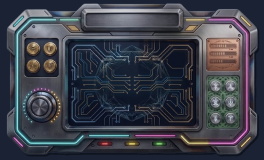
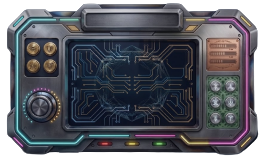
se corrigieron los errores en la tarea 145i review

Changed region(s): [[0.0, 0.0, 1.0, 1.0]]

diff --git a/acercaNosotros.html b/acercaNosotros.html
@@ -30,7 +30,7 @@
   <img class="banner-frame" src="assets/banner-img.png" alt="Marco del Banner">
   <!-- Contenedor de la pantalla central con los botones -->
   <div class="banner-screen">
-    <h1 href="acercaNosotros.html" class="yellow-accent btn-yellow quantico" >CONOCENOS</h1>
+    <h3 href="acercaNosotros.html" class="yellow-accent btn-yellow head" class="head" >CONOCENOS</h3>
     <!-- <nav class="banner-nav">
       <a href="novedades.html" class="banner-btn btn-cyan quantico" data-section="Novedades">
         <span>NOVEDADES</span>
@@ -83,7 +83,7 @@
                         <path id="framePath" class="frame-path" />
                     </svg>
                     <div class="content">
-                        <p>The Pixel Vault es un colectivo de diseño e ingeniería web enfocado en la industria del videojuego. Nació durante un intensivo bootcamp de desarrollo donde diez creativos de distintas disciplinas unieron sus habilidades con una sola meta: crear interfaces inmersivas y experiencias digitales que estén a la altura de los mundos virtuales que representan.</p>
+                        <p>The Pixel Vault es un colectivo de ingeniería web y diseño enfocado en la industria del videojuego. Nació durante un intensivo bootcamp de desarrollo donde diez creativos de distintas disciplinas unieron sus habilidades con una sola meta: crear interfaces inmersivas y experiencias digitales que estén a la altura de los mundos virtuales que representan.</p>
                     </div>
                 </div>
             </div>
@@ -104,11 +104,11 @@
 
             </div>
             <div class="col align-self-center">
-                <h2 id="missionLogs">
+                <h5 id="missionLogs" class="head">
                     Mission Logs:
                     <br>
                     Escala y crecimiento
-                </h2>
+                </h5>
             </div>
             <div class="col">
 
@@ -258,7 +258,7 @@
       <h1 class="team-title">Roster de la tripulación</h1>
       <div class="row align-items-center team-layout">
         <div class="col-12 col-lg-4 team-description-column">
-          <p>
+          <p class="fuente">
             Conoce a las mentes creativas detrás de THE PIXEL VAULT que dieron vida a una interfaz inmersiva en el
             front-end, y los guardianes del control de calidad que mantuvieron el repositorio en orden cazando bugs.
             Juntos unimos talento, café y pasión por los videojuegos para forjar este refugio digital desde cero. ¡El
@@ -334,7 +334,7 @@
         <div class="modal-body">
           <img src="assets/cardBeto.png" class="modal-member-image" alt="cardBeto">
           <div class="d-grid">
-            <p>Soy Desarrollador Full Stack Jr. y me encargo de conectar el *frontend* con la lógica del *backend* para
+            <p class="fuente">Soy Desarrollador Full Stack Jr. y me encargo de conectar el *frontend* con la lógica del *backend* para
               construir aplicaciones web sólidas. Con mi base en Física Aplicada y armas como Java y Python, analizo y
               resuelvo cada reto técnico como si fuera un jefe de nivel. ¡Siempre listo para colaborar y subir de
               experiencia en el equipo!</p>
@@ -361,7 +361,7 @@
         <div class="modal-body">
           <img src="assets/cardAlen.png" class="modal-member-image" alt="cardAlen">
           <div class="d-grid">
-            <p>Desarrollador Java Full Stack Jr. con sólida experiencia en soporte técnico y resolución de fallas.
+            <p class="fuente">Desarrollador Java Full Stack Jr. con sólida experiencia en soporte técnico y resolución de fallas.
               Especializado en analizar sistemas, optimizar procesos y aplicar código limpio (JavaScript, HTML, CSS,
               Git). ¡Listo para aportar lógica y comunicación efectiva al equipo!</p>
             <div class="links">
@@ -387,7 +387,7 @@
         <div class="modal-body">
           <img src="assets/cardJaz.png" class="modal-member-image" alt="cardJaz">
           <div class="d-grid">
-            <p>Desarrolladora Java Full Stack y estudiante de Ciencias de la Informática en el IPN, con bases sólidas en
+            <p class="fuente">Desarrolladora Java Full Stack y estudiante de Ciencias de la Informática en el IPN, con bases sólidas en
               Java, SQL, Git y análisis de datos (Certificación IBM). Apasionada por el código limpio y el trabajo en
               equipo, ¡lista para transformar ideas en soluciones tecnológicas funcionales!</p>
             <div class="links">
@@ -413,7 +413,7 @@
         <div class="modal-body">
           <img src="assets/cardDani.png" class="modal-member-image" alt="cardDani">
           <div class="d-grid">
-            <p>Desarrollador Java Full Stack con experiencia en Python, FastAPI, SQL y Flutter para crear APIs REST e
+            <p class="fuente">Desarrollador Java Full Stack con experiencia en Python, FastAPI, SQL y Flutter para crear APIs REST e
               integrar sistemas. Enfocado en consolidar su carrera en desarrollo web y metodologías ágiles, busca
               aportar soluciones reales y eficientes en proyectos tecnológicos de alto impacto.</p>
             <div class="links">
@@ -439,7 +439,7 @@
         <div class="modal-body">
           <img src="assets/cardDiana.png" class="modal-member-image" alt="cardDiana">
           <div class="d-grid">
-            <p>Desarrolladora Java Full Stack experta en Java, Spring Boot, Angular y MySQL, con experiencia creando y
+            <p class="fuente">Desarrolladora Java Full Stack experta en Java, Spring Boot, Angular y MySQL, con experiencia creando y
               optimizando soluciones web empresariales (GitLab, Jira). Enfocada en la resolución de problemas y el
               análisis de sistemas, ¡lista para aportar talento y crecer en un nuevo reto tecnológico!</p>
             <div class="links">
@@ -465,7 +465,7 @@
         <div class="modal-body">
           <img src="assets/cardDiego.png" class="modal-member-image" alt="cardDiego">
           <div class="d-grid">
-            <p>Desarrollador web y de videojuegos apasionado por fusionar la creatividad con la técnica. Con experiencia
+            <p class="fuente">Desarrollador web y de videojuegos apasionado por fusionar la creatividad con la técnica. Con experiencia
               en HTML, CSS, JavaScript, Bootstrap, Angular, Laravel, Unity y bases de datos (Git/GitHub), y
               fortaleciendo su perfil como Java Full Stack en Generation. ¡Listo para afrontar nuevos retos y aportar
               valor a cualquier equipo de tecnología!</p>
@@ -492,7 +492,7 @@
         <div class="modal-body">
           <img src="assets/cardFer.png" class="modal-member-image" alt="cardFer">
           <div class="d-grid">
-            <p>Especialista en desarrollo Java Fullstack (HTML, CSS, JS, Git, APIs) experta en transformar retos
+            <p class="fuente">Especialista en desarrollo Java Fullstack (HTML, CSS, JS, Git, APIs) experto en transformar retos
               técnicos en soluciones escalables. Fusiono mi experiencia en soporte y metodologías ágiles con una fuerte
               vocación pedagógica y de liderazgo para optimizar procesos, conectar sistemas e impulsar proyectos con
               impacto real.</p>
@@ -519,7 +519,7 @@
         <div class="modal-body">
           <img src="assets/cardCarmen.png" class="modal-member-image" alt="cardCarmen">
           <div class="d-grid">
-            <p>Desarrolladora Java Full Stack y especialista en Spring Boot, JavaScript y bases de datos. Con
+            <p class="fuente">Desarrolladora Java Full Stack y especialista en Spring Boot, JavaScript y bases de datos. Con
               experiencia en equipos ágiles (Scrum) y diseño de APIs, se enfoca en entregar software escalable y de alta
               calidad que impulse directamente los objetivos del negocio.</p>
             <div class="links">
@@ -545,7 +545,7 @@
         <div class="modal-body">
           <img src="assets/cardNat.png" class="modal-member-image" alt="cardNat">
           <div class="d-grid">
-            <p>Desarrolladora Java Full Stack apasionada por fusionar la precisión del código con un diseño visual
+            <p class="fuente">Desarrolladora Java Full Stack apasionada por fusionar la precisión del código con un diseño visual
               impecable. Experta en integrar lógica frontend y backend para optimizar componentes y acelerar flujos de
               trabajo en equipo. ¡Lista para aportar innovación tecnológica a nuevos retos!</p>
             <div class="links">
@@ -571,7 +571,7 @@
         <div class="modal-body">
           <img src="assets/cardOsorio.png" class="modal-member-image" alt="cardOsorio">
           <div class="d-grid">
-            <p>Ingeniero en Tecnologías de la Información con más de 7 años de trayectoria en soporte, infraestructura y
+            <p class="fuente">Ingeniero en Tecnologías de la Información con más de 7 años de trayectoria en soporte, infraestructura y
               asesoría técnica, enfocado ahora en el desarrollo Backend con Java. Con sólida formación en POO, bases de
               datos relacionales, Spring Boot, APIs REST, Docker y metodologías ágiles.</p>
             <div class="links">

diff --git a/index.html b/index.html
@@ -36,7 +36,7 @@
 
   <!-- Contenedor de la pantalla central con los botones -->
   <div class="banner-screen">
-    <a href="acercaNosotros.html" class="yellow-accent btn-yellow quantico" >CONOCENOS</a>
+    <a href="acercaNosotros.html" class="yellow-accent btn-yellow head" >CONOCENOS</a>
     <!-- <nav class="banner-nav">
       <a href="novedades.html" class="banner-btn btn-cyan quantico" data-section="Novedades">
         <span>NOVEDADES</span>

diff --git a/styles/styles.css b/styles/styles.css
@@ -12,8 +12,12 @@
   --font-pixel-body: 'Quantico', sans-serif;
 }
 
-
-
+.head {
+  font-family: var(--font-pixel-header);
+}
+.fuente {
+  font-family: var(--font-pixel-body);
+}
 :root {
   --bg-color: #000B1E;
   /*background color */
@@ -96,7 +100,6 @@ body {
   margin: 20px auto;
   overflow: hidden;
   border-radius: 16px;
-  box-shadow: 0 0 25px rgba(45, 226, 230, 0.15);
 }
 
 /*Imagen del Marco Metálico */

diff --git a/styles/acercaNosotros.css b/styles/acercaNosotros.css
@@ -262,6 +262,8 @@
   .team-description-column {
     min-height: auto;
     padding: 1rem 2rem;
+    font-family: --font-pixel-body !important;
+
   }
 
   .team-description-column p {
@@ -614,7 +616,7 @@
 }
 
 #missionLogs{
-    font-family: 'Pixelify Sans';
+    
     color: var(--yellow-accent);
     filter: url(#neon-glow2);
 }
